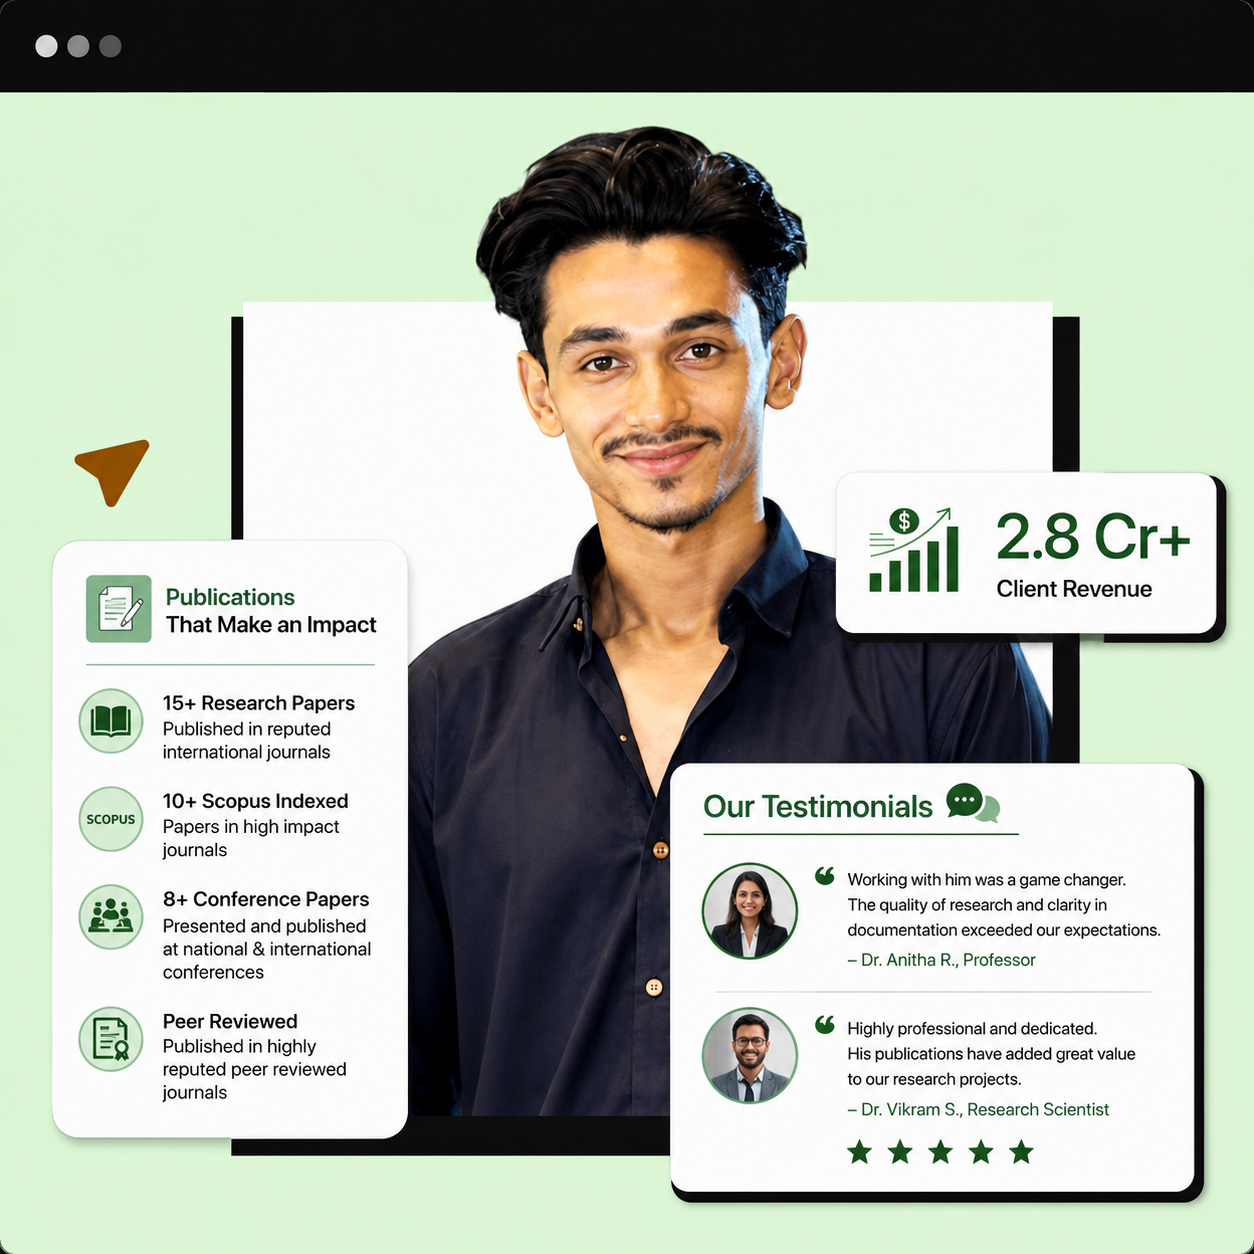
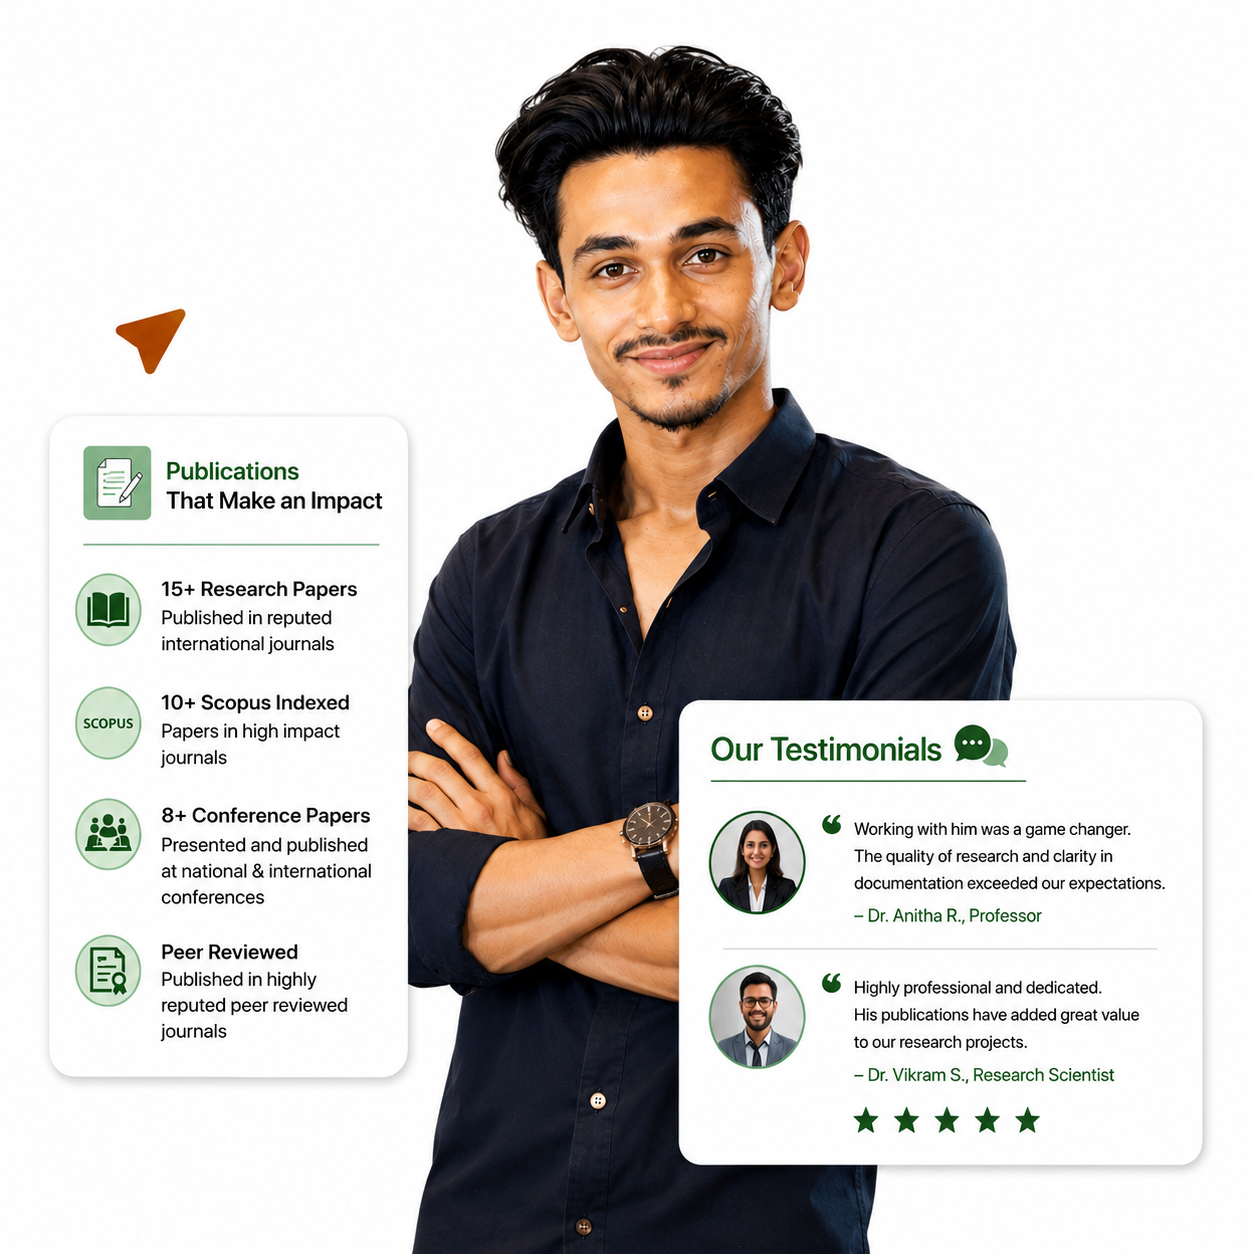
feat: add ConsultationPage, HomePage, and base styles for application structure

diff --git a/src/components/Footer.jsx b/src/components/Footer.jsx
@@ -97,33 +97,12 @@ export default function Footer() {
 
                   <div className="footer1_link-list">
                     <div className="margin-bottom margin-xsmall">
-                      <div className="text-weight-semibold">Follow us</div>
+                      <div className="text-weight-semibold">Connect with us</div>
                     </div>
                     <a
-                      // href="https://www.instagram.com/sahelichatterjeehere/"
-                      className="footer1_social-link w-inline-block"
-                    >
-                      <div className="icon-embed-xsmall w-embed">
-                        <svg
-                          width="100%"
-                          height="100%"
-                          viewBox="0 0 24 24"
-                          fill="none"
-                          xmlns="http://www.w3.org/2000/svg"
-                        >
-                          <path
-                            fillRule="evenodd"
-                            clipRule="evenodd"
-                            d="M16 3H8C5.23858 3 3 5.23858 3 8V16C3 18.7614 5.23858 21 8 21H16C18.7614 21 21 18.7614 21 16V8C21 5.23858 18.7614 3 16 3ZM19.25 16C19.2445 17.7926 17.7926 19.2445 16 19.25H8C6.20735 19.2445 4.75549 17.7926 4.75 16V8C4.75549 6.20735 6.20735 4.75549 8 4.75H16C17.7926 4.75549 19.2445 6.20735 19.25 8V16ZM16.75 8.25C17.3023 8.25 17.75 7.80228 17.75 7.25C17.75 6.69772 17.3023 6.25 16.75 6.25C16.1977 6.25 15.75 6.69772 15.75 7.25C15.75 7.80228 16.1977 8.25 16.75 8.25ZM12 7.5C9.51472 7.5 7.5 9.51472 7.5 12C7.5 14.4853 9.51472 16.5 12 16.5C14.4853 16.5 16.5 14.4853 16.5 12C16.5027 10.8057 16.0294 9.65957 15.1849 8.81508C14.3404 7.97059 13.1943 7.49734 12 7.5ZM9.25 12C9.25 13.5188 10.4812 14.75 12 14.75C13.5188 14.75 14.75 13.5188 14.75 12C14.75 10.4812 13.5188 9.25 12 9.25C10.4812 9.25 9.25 10.4812 9.25 12Z"
-                            fill="CurrentColor"
-                          />
-                        </svg>
-                      </div>
-                      <div>Instagram</div>
-                    </a>
-                    <a
-                      // href="https://www.linkedin.com/in/saheli-chatterjee-organic-marketing/"
-                      // target="_blank"
+                      href="https://www.linkedin.com/"
+                      target="_blank"
+                      rel="noopener noreferrer"
                       className="footer1_social-link w-inline-block"
                     >
                       <div className="icon-embed-xsmall w-embed">
@@ -145,7 +124,7 @@ export default function Footer() {
                       <div>LinkedIn</div>
                     </a>
                     <a
-                      // href="https://www.youtube.com/@sahelichatterjeehere"
+                      href="mailto:contact@60daypublications.com"
                       className="footer1_social-link w-inline-block"
                     >
                       <div className="icon-embed-xsmall w-embed">
@@ -157,17 +136,25 @@ export default function Footer() {
                           xmlns="http://www.w3.org/2000/svg"
                         >
                           <path
-                            fillRule="evenodd"
-                            clipRule="evenodd"
-                            d="M20.5686 4.77345C21.5163 5.02692 22.2555 5.76903 22.5118 6.71673C23.1821 9.42042 23.1385 14.5321 22.5259 17.278C22.2724 18.2257 21.5303 18.965 20.5826 19.2213C17.9071 19.8831 5.92356 19.8015 3.40294 19.2213C2.45524 18.9678 1.71595 18.2257 1.45966 17.278C0.827391 14.7011 0.871044 9.25144 1.44558 6.73081C1.69905 5.78311 2.44116 5.04382 3.38886 4.78753C6.96561 4.0412 19.2956 4.282 20.5686 4.77345ZM9.86682 8.70227L15.6122 11.9974L9.86682 15.2925V8.70227Z"
-                            fill="CurrentColor"
+                            d="M4 4H20C21.1 4 22 4.9 22 6V18C22 19.1 21.1 20 20 20H4C2.9 20 2 19.1 2 18V6C2 4.9 2.9 4 4 4Z"
+                            stroke="currentColor"
+                            strokeWidth="2"
+                            strokeLinecap="round"
+                            strokeLinejoin="round"
+                          />
+                          <path
+                            d="M22 6L12 13L2 6"
+                            stroke="currentColor"
+                            strokeWidth="2"
+                            strokeLinecap="round"
+                            strokeLinejoin="round"
                           />
                         </svg>
                       </div>
-                      <div>Youtube</div>
+                      <div>Mail</div>
                     </a>
-                    <a
-                      // href="https://x.com/sahelihere"
+                    <Link
+                      to="/"
                       className="footer1_social-link w-inline-block"
                     >
                       <div className="icon-embed-xsmall w-embed">
@@ -178,14 +165,36 @@ export default function Footer() {
                           fill="none"
                           xmlns="http://www.w3.org/2000/svg"
                         >
+                          <circle
+                            cx="12"
+                            cy="12"
+                            r="10"
+                            stroke="currentColor"
+                            strokeWidth="2"
+                            strokeLinecap="round"
+                            strokeLinejoin="round"
+                          />
+                          <line
+                            x1="2"
+                            y1="12"
+                            x2="22"
+                            y2="12"
+                            stroke="currentColor"
+                            strokeWidth="2"
+                            strokeLinecap="round"
+                            strokeLinejoin="round"
+                          />
                           <path
-                            d="M17.1761 4H19.9362L13.9061 10.7774L21 20H15.4456L11.0951 14.4066L6.11723 20H3.35544L9.80517 12.7508L3 4H8.69545L12.6279 9.11262L17.1761 4ZM16.2073 18.3754H17.7368L7.86441 5.53928H6.2232L16.2073 18.3754Z"
-                            fill="CurrentColor"
+                            d="M12 2A15.3 15.3 0 0 1 16 12A15.3 15.3 0 0 1 12 22A15.3 15.3 0 0 1 8 12A15.3 15.3 0 0 1 12 2Z"
+                            stroke="currentColor"
+                            strokeWidth="2"
+                            strokeLinecap="round"
+                            strokeLinejoin="round"
                           />
                         </svg>
                       </div>
-                      <div>X</div>
-                    </a>
+                      <div>Website</div>
+                    </Link>
                   </div>
                 </div>
               </div>
